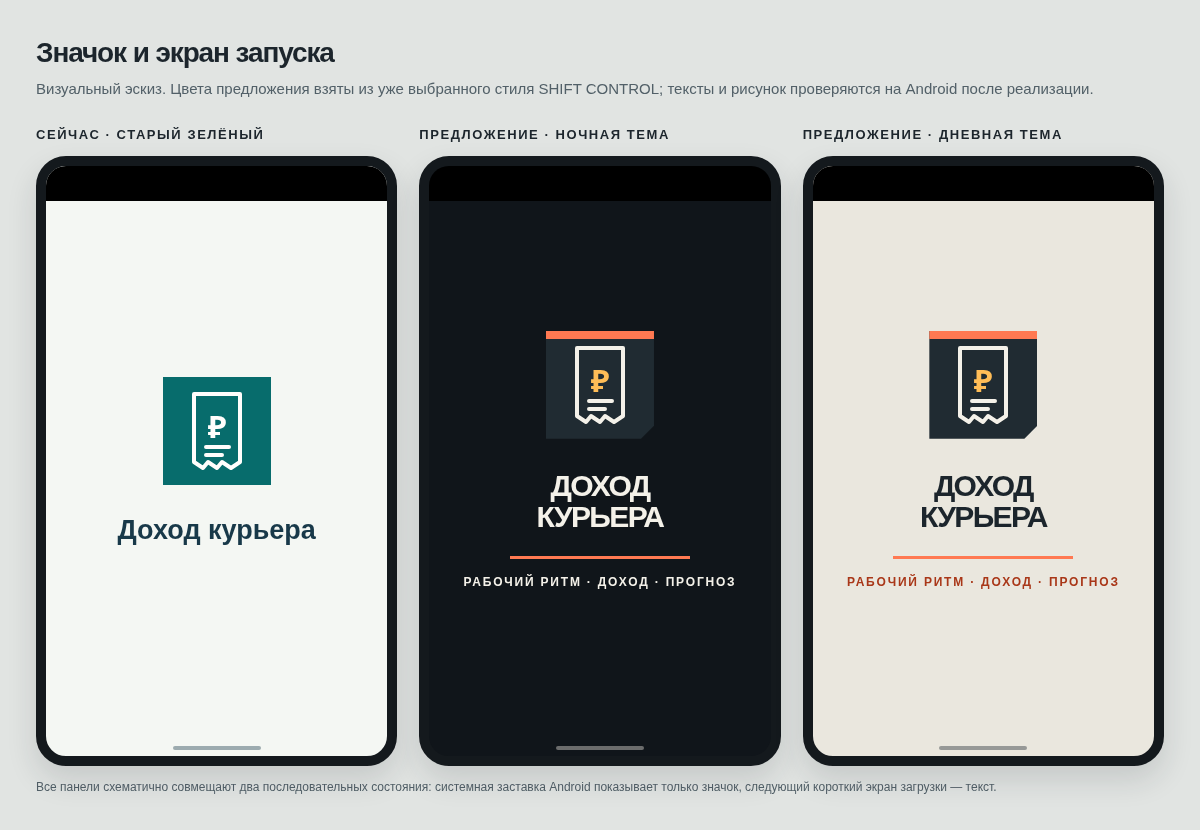
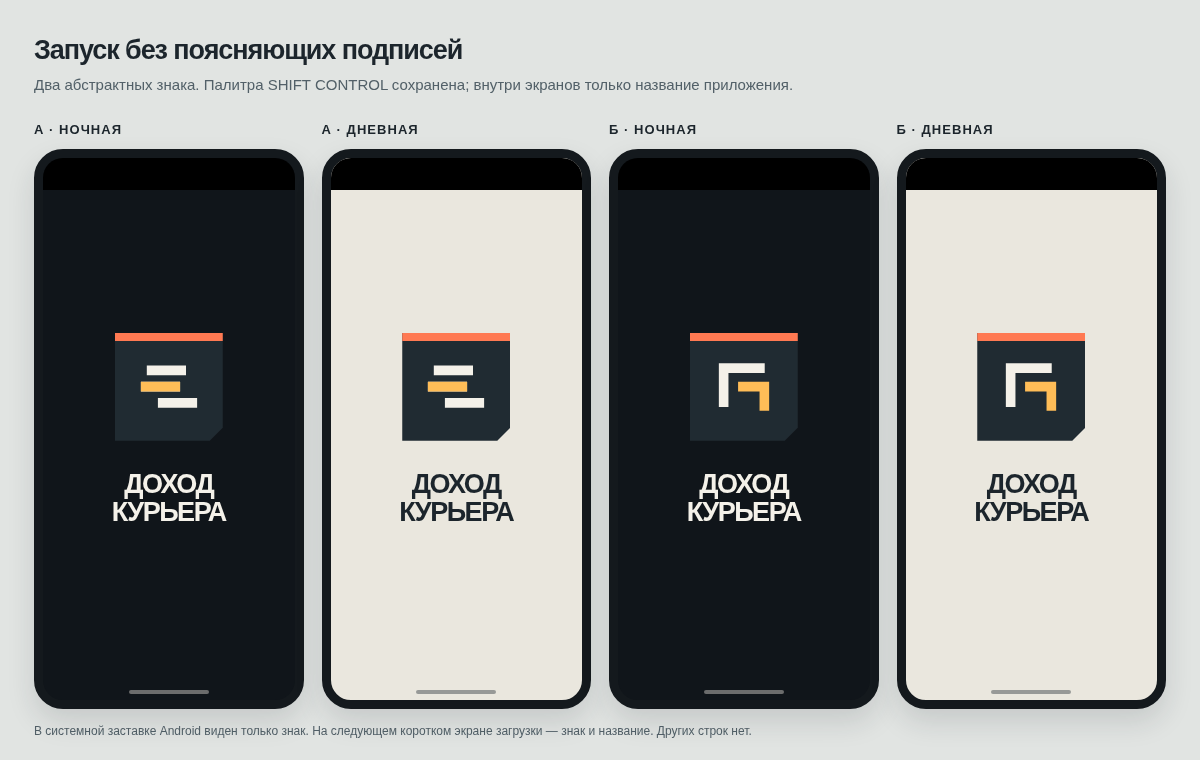
Revise startup concept with abstract marks and no tagline

diff --git a/design/review/startup-identity-concept.html b/design/review/startup-identity-concept.html
@@ -2,79 +2,49 @@
 <html lang="ru">
 <meta charset="utf-8">
 <meta name="viewport" content="width=device-width, initial-scale=1">
-<title>Экран запуска · визуальное предложение</title>
+<title>Абстрактный знак запуска · визуальные варианты</title>
 <style>
   *{box-sizing:border-box}
   body{margin:0;background:#e1e4e2;color:#1c252c;font:16px/1.35 Arial,sans-serif}
-  .board{width:1200px;min-height:830px;margin:auto;padding:34px 36px}
-  h1{font-size:28px;margin:0 0 7px;letter-spacing:-.04em}
-  .sub{font-size:15px;color:#526068;margin:0 0 27px}
-  .grid{display:grid;grid-template-columns:repeat(3,1fr);gap:22px}
-  .label{font-size:13px;font-weight:800;letter-spacing:.12em;margin-bottom:12px}
-  .phone{height:610px;border:10px solid #14191d;border-radius:30px;overflow:hidden;position:relative;box-shadow:0 14px 30px #1c252c23}
-  .phone:before{content:"";position:absolute;top:0;left:0;right:0;height:35px;background:#000}
-  .phone:after{content:"";position:absolute;bottom:6px;left:calc(50% - 44px);width:88px;height:4px;border-radius:4px;background:currentColor;opacity:.4}
-  .content{height:100%;display:flex;flex-direction:column;align-items:center;justify-content:center;padding:0 32px}
-  .old{background:#f4f7f3;color:#183949}.old .appmark{background:#076c6c}
-  .new-dark{background:#10151a;color:#f4f1e9}
-  .new-light{background:#eae7de;color:#1c252c}
-  .appmark{width:108px;height:108px;display:grid;place-items:center;margin-bottom:31px;flex:none}
-  .new-dark .appmark,.new-light .appmark{background:#202b32;clip-path:polygon(0 0,100% 0,100% 88%,88% 100%,0 100%);position:relative}
-  .new-dark .appmark:before,.new-light .appmark:before{content:"";position:absolute;top:0;left:0;width:100%;height:8px;background:#ff7952}
-  .appmark svg{width:70px;height:82px;overflow:visible}
-  .old .appmark svg{color:#fffefc}
-  .new-dark .appmark svg,.new-light .appmark svg{color:#f4f1e9}
-  .receipt{fill:none;stroke:currentColor;stroke-width:4;stroke-linejoin:round;stroke-linecap:round}
-  .ruble{font-size:31px;font-weight:900;fill:currentColor}
-  .new-dark .ruble,.new-light .ruble{fill:#ffbd57}
-  .brand{font-size:30px;font-weight:900;line-height:1.04;text-align:center;letter-spacing:-.055em;text-transform:uppercase}
-  .old .brand{font-weight:700;text-transform:none;letter-spacing:0;font-size:27px}
-  .rule{width:180px;height:3px;background:#ff7952;margin:24px 0 15px}
-  .eyebrow{font-size:12px;font-weight:800;letter-spacing:.15em;text-align:center}
-  .new-light .eyebrow{color:#a93718}
-  .old .rule,.old .eyebrow{display:none}
-  .note{font-size:12px;color:#526068;margin:13px 0 0}
+  .board{width:1200px;min-height:760px;margin:auto;padding:32px 34px}
+  h1{font-size:27px;margin:0 0 7px;letter-spacing:-.04em}
+  .sub{font-size:15px;color:#526068;margin:0 0 25px}
+  .grid{display:grid;grid-template-columns:repeat(4,1fr);gap:18px}
+  .label{font-size:13px;font-weight:800;letter-spacing:.08em;margin-bottom:11px}
+  .phone{height:560px;border:9px solid #14191d;border-radius:29px;overflow:hidden;position:relative;box-shadow:0 13px 28px #1c252c22}
+  .phone:before{content:"";position:absolute;top:0;left:0;right:0;height:32px;background:#000}
+  .phone:after{content:"";position:absolute;bottom:6px;left:calc(50% - 40px);width:80px;height:4px;border-radius:4px;background:currentColor;opacity:.4}
+  .content{height:100%;display:flex;flex-direction:column;align-items:center;justify-content:center;padding:0 18px}
+  .dark{background:#10151a;color:#f4f1e9}
+  .light{background:#eae7de;color:#1c252c}
+  .appmark{width:108px;height:108px;display:grid;place-items:center;margin-bottom:29px;background:#202b32;clip-path:polygon(0 0,100% 0,100% 88%,88% 100%,0 100%);position:relative}
+  .appmark:before{content:"";position:absolute;top:0;left:0;width:100%;height:8px;background:#ff7952}
+  .appmark svg{width:74px;height:74px}
+  .cream{fill:#f4f1e9}.gold{fill:#ffbd57}
+  .brand{font-size:27px;font-weight:900;line-height:1.04;text-align:center;letter-spacing:-.055em;text-transform:uppercase}
+  .note{font-size:12px;color:#526068;margin:14px 0 0}
 </style>
 <div class="board">
-  <h1>Значок и экран запуска</h1>
-  <p class="sub">Визуальный эскиз. Цвета предложения взяты из уже выбранного стиля SHIFT CONTROL; тексты и рисунок проверяются на Android после реализации.</p>
+  <h1>Запуск без поясняющих подписей</h1>
+  <p class="sub">Два абстрактных знака. Палитра SHIFT CONTROL сохранена; внутри экранов только название приложения.</p>
   <div class="grid">
-    <div>
-      <div class="label">СЕЙЧАС · СТАРЫЙ ЗЕЛЁНЫЙ</div>
-      <div class="phone old"><div class="content">
-        <div class="appmark"><svg viewBox="0 0 70 82" aria-hidden="true">
-          <path class="receipt" d="M12 4H58V72L49 78L40 72L35 78L26 72L21 78L12 72Z"/>
-          <text class="ruble" x="35" y="48" text-anchor="middle">₽</text>
-          <path class="receipt" d="M24 57H47M24 65H40"/>
-        </svg></div>
-        <div class="brand">Доход курьера</div>
-      </div></div>
-    </div>
-    <div>
-      <div class="label">ПРЕДЛОЖЕНИЕ · НОЧНАЯ ТЕМА</div>
-      <div class="phone new-dark"><div class="content">
-        <div class="appmark"><svg viewBox="0 0 70 82" aria-hidden="true">
-          <path class="receipt" d="M12 4H58V72L49 78L40 72L35 78L26 72L21 78L12 72Z"/>
-          <text class="ruble" x="35" y="48" text-anchor="middle">₽</text>
-          <path class="receipt" d="M24 57H47M24 65H40"/>
-        </svg></div>
-        <div class="brand">Доход<br>курьера</div><div class="rule"></div>
-        <div class="eyebrow">РАБОЧИЙ РИТМ · ДОХОД · ПРОГНОЗ</div>
-      </div></div>
-    </div>
-    <div>
-      <div class="label">ПРЕДЛОЖЕНИЕ · ДНЕВНАЯ ТЕМА</div>
-      <div class="phone new-light"><div class="content">
-        <div class="appmark"><svg viewBox="0 0 70 82" aria-hidden="true">
-          <path class="receipt" d="M12 4H58V72L49 78L40 72L35 78L26 72L21 78L12 72Z"/>
-          <text class="ruble" x="35" y="48" text-anchor="middle">₽</text>
-          <path class="receipt" d="M24 57H47M24 65H40"/>
-        </svg></div>
-        <div class="brand">Доход<br>курьера</div><div class="rule"></div>
-        <div class="eyebrow">РАБОЧИЙ РИТМ · ДОХОД · ПРОГНОЗ</div>
-      </div></div>
-    </div>
+    <div><div class="label">А · НОЧНАЯ</div><div class="phone dark"><div class="content">
+      <div class="appmark"><svg viewBox="0 0 100 100" aria-hidden="true"><path class="cream" d="M20 21H73V34H20Z M12 43H65V56H12Z M35 65H88V78H35Z"/><path class="gold" d="M12 43H65V56H12Z"/></svg></div>
+      <div class="brand">Доход<br>курьера</div>
+    </div></div></div>
+    <div><div class="label">А · ДНЕВНАЯ</div><div class="phone light"><div class="content">
+      <div class="appmark"><svg viewBox="0 0 100 100" aria-hidden="true"><path class="cream" d="M20 21H73V34H20Z M12 43H65V56H12Z M35 65H88V78H35Z"/><path class="gold" d="M12 43H65V56H12Z"/></svg></div>
+      <div class="brand">Доход<br>курьера</div>
+    </div></div></div>
+    <div><div class="label">Б · НОЧНАЯ</div><div class="phone dark"><div class="content">
+      <div class="appmark"><svg viewBox="0 0 100 100" aria-hidden="true"><path class="cream" d="M16 18H78V31H29V77H16Z"/><path class="gold" d="M42 43H84V82H71V56H42Z"/></svg></div>
+      <div class="brand">Доход<br>курьера</div>
+    </div></div></div>
+    <div><div class="label">Б · ДНЕВНАЯ</div><div class="phone light"><div class="content">
+      <div class="appmark"><svg viewBox="0 0 100 100" aria-hidden="true"><path class="cream" d="M16 18H78V31H29V77H16Z"/><path class="gold" d="M42 43H84V82H71V56H42Z"/></svg></div>
+      <div class="brand">Доход<br>курьера</div>
+    </div></div></div>
   </div>
-  <p class="note">Все панели схематично совмещают два последовательных состояния: системная заставка Android показывает только значок, следующий короткий экран загрузки — текст.</p>
+  <p class="note">В системной заставке Android виден только знак. На следующем коротком экране загрузки — знак и название. Других строк нет.</p>
 </div>
 </html>

diff --git a/docs/acceptance/STARTUP_IDENTITY_VISUAL_PROPOSAL_2026-10-28.md b/docs/acceptance/STARTUP_IDENTITY_VISUAL_PROPOSAL_2026-10-28.md
@@ -1,9 +1,9 @@
 # Startup identity proposal · 28 October 2026
 
-**Status: visual proposal, owner decision pending.** The currently installed Android source still uses the previous green receipt launcher and Android 12 splash icon (`android/res/drawable/ic_launcher.xml`, `ic_receipt.xml`), old light launch background `#f4f7f3`, and native loading label in the earlier style. These precede the selected SHIFT CONTROL palette used on the main pages.
+**Status: revised visual proposal, owner decision pending.** The current Android source still uses the previous green receipt launcher and Android 12 splash icon (`android/res/drawable/ic_launcher.xml`, `ic_receipt.xml`), old light launch background `#f4f7f3`, and native loading label in the earlier style. These precede the selected SHIFT CONTROL palette used on the main pages.
 
-`design/review/startup-identity-concept.html` and its PNG are a **schematic visual proposal**, not an Android capture. The left panel combines the existing launcher mark and loading copy; the center and right panels show the proposed dark and light sequence. Android's system splash shows only the icon, followed by the native short loading screen with the name and subtitle.
+`design/review/startup-identity-concept.html` and its PNG are a **schematic visual proposal**, not an Android capture. The first three-panel draft was explicitly rejected by the owner: the receipt was too literal, and the extra “Рабочий ритм · Доход · Прогноз” tagline was redundant. The owner instructed us to keep the color scheme, use an abstract sign, and remove such redundant captions. This revised sheet shows two abstract marks A/B, each in dark and light themes. Inside the app views it contains only the app name.
 
-The proposal retains the recognizable receipt and ruble symbol. The icon uses a graphite base, orange signal stripe, cream receipt outline, and gold ruble. The loading background follows the already selected page colors `#10151a` (night) and `#eae7de` (day), with uppercase name and a short three-part descriptor. No finances, navigation, app ID, local data, permissions, or signing identity change.
+Both signs use a graphite base, orange signal stripe, cream abstract geometry, and one gold element; neither depicts a receipt, ruble, courier, bike, route, or package. The loading background follows the already selected page colors `#10151a` (night) and `#eae7de` (day), with the app name only. Android's system splash shows only the mark, followed by the native short loading screen with the name. No finances, navigation, app ID, local data, permissions, or signing identity change.
 
 If approved, implement the vector assets, Android themes and native loading view, then capture actual Android 35 startup screens in both themes and compare with the same app state. Owner verdict on those Android results is separate from approval of this concept. Until both, visual PASS is **PENDING**.
